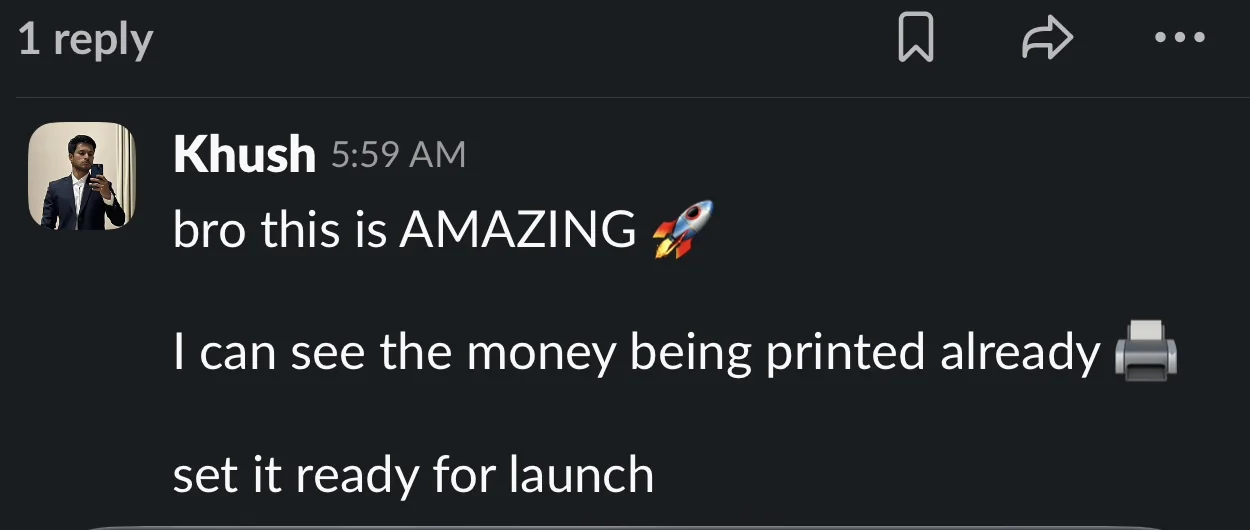
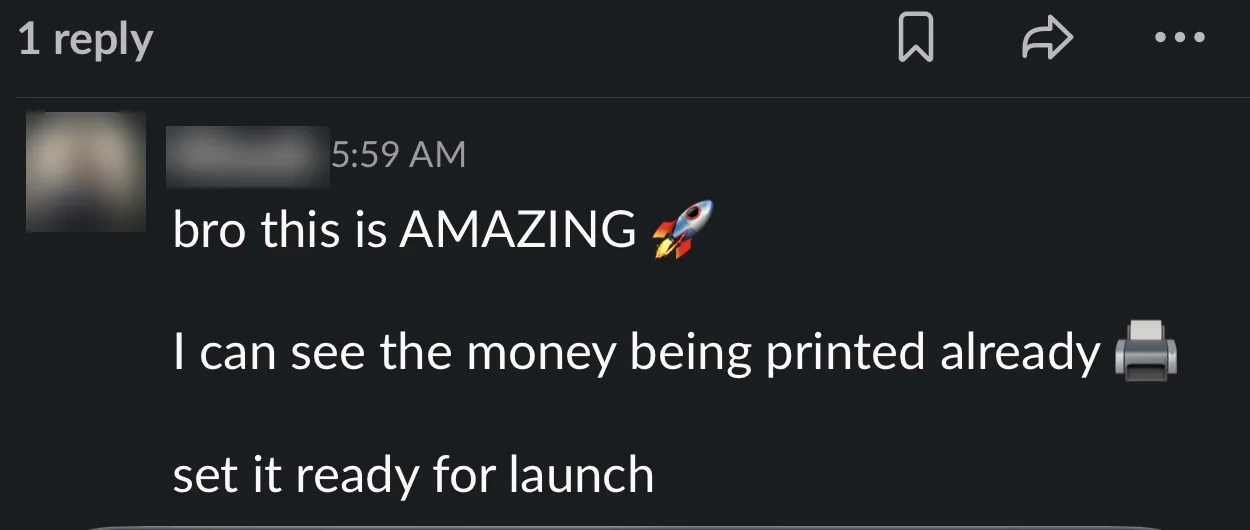
Redact client identities in the Slack proof; proof opens in the lightbox
The ads screenshots come from a client's internal Slack. The two
third-party names and avatars are now blurred; the messages and the
author's own handle are untouched.

Short-form proof swapped for a scroll position that shows Tiare's name,
handle and photo while leaving the pricing question out of frame — both
things at once, no splicing.

The proof shots render between 161px and 340px wide, which is legible
for the hero and unreadable for the pair, so all five now open in the
lightbox that already served the thumbnail wall. That lightbox took its
pictures from THUMBS directly; it now takes a set, so prev/next stays
inside whichever group was opened.

Track record gains subscriber counts for Mark Taylor and Julian Corzo.

Changed region(s): [[0.0, 0.2113, 0.2808, 0.4528]]

diff --git a/index.html b/index.html
@@ -294,7 +294,7 @@ h1,h2,h3{font-family:var(--f-disp);font-weight:800;letter-spacing:-.032em;line-h
   font-family:var(--f-mono);font-size:.58rem;letter-spacing:.13em;text-transform:uppercase;
   color:var(--sand-dim)}
 .svc-proof figcaption svg{width:19px;height:19px;flex:none;color:var(--ember, #2F6BE8);transform:translateY(1px)}
-.proof-shot{display:block;overflow:hidden;border-radius:11px;background:#12161F;
+.proof-shot{display:block;overflow:hidden;border-radius:11px;background:#12161F;cursor:zoom-in;
   border:1px solid rgba(14,20,36,.16);box-shadow:0 20px 44px -26px rgba(6,10,24,.72);
   transform:rotate(-1.7deg);transition:transform .4s var(--ease)}
 .proof-shot img{display:block;width:100%;height:auto;transition:transform .55s var(--ease)}
@@ -917,7 +917,7 @@ body::before{content:"";position:fixed;inset:0;z-index:-1;pointer-events:none;
       <ul class="svc-tags"><li>Hook-first cuts</li><li>Captions</li><li>Reels · Shorts · TikTok</li><li>Batch delivery</li></ul>
       <figure class="svc-proof">
         <figcaption><svg viewBox="0 0 24 24" aria-hidden="true"><path d="M4 5c7.2.4 12.4 4 14.6 10.8" fill="none" stroke="currentColor" stroke-width="1.7" stroke-linecap="round"/><path d="M13.6 15.9l5.2.6.7-5.2" fill="none" stroke="currentColor" stroke-width="1.7" stroke-linecap="round" stroke-linejoin="round"/></svg>What the client said next</figcaption>
-        <span class="proof-shot"><img src="assets/img/proof/tiare-best-edit.webp" alt="Instagram message from Tiare Tarewa of Sovereign Identity reading: I've worked with video editors in the past but this edit is by far one of the best" width="1290" height="680" loading="lazy" decoding="async"></span>
+        <span class="proof-shot"><img src="assets/img/proof/tiare-best-edit.webp" alt="Instagram message from Tiare Tarewa of Sovereign Identity reading: I've worked with video editors in the past but this edit is by far one of the best" width="1290" height="510" loading="lazy" decoding="async"></span>
       </figure>
     </article>
   </div>
@@ -1047,7 +1047,7 @@ body::before{content:"";position:fixed;inset:0;z-index:-1;pointer-events:none;
         </li>
         <li>
           <span class="tl-when">2022 — 2025</span>
-          <b>Mark Taylor · Autogrowth Academy</b>
+          <b>Mark Taylor · Autogrowth Academy <span class="subs">10.2K subs</span></b>
           <em>YouTube channel management with short-form ad creatives</em>
         </li>
         <li>
@@ -1057,7 +1057,7 @@ body::before{content:"";position:fixed;inset:0;z-index:-1;pointer-events:none;
         </li>
         <li>
           <span class="tl-when">2023 — 2024</span>
-          <b>Julian Corzo</b>
+          <b>Julian Corzo <span class="subs">3.93K subs</span></b>
           <em>Long-form YouTube and short-form content</em>
         </li>
       </ol>
@@ -1364,14 +1364,32 @@ body::before{content:"";position:fixed;inset:0;z-index:-1;pointer-events:none;
 
   /* ---------------- lightbox ---------------- */
   var lb = $('#lightbox'), lbImg = $('#lbImg'), lbCap = $('#lbCap');
-  var lbIdx = 0, lastFocus = null;
+  var lbIdx = 0, lastFocus = null, lbSet = [];
 
-  function openLb(i) {
-    lbIdx = (i + THUMBS.length) % THUMBS.length;
-    var t = THUMBS[lbIdx];
-    lbImg.src = 'assets/img/thumbs/' + t.f + '.webp';
-    lbImg.alt = t.t;
-    lbCap.textContent = t.t + '  ·  ' + t.c;
+  /* The thumbnail wall and the proof screenshots are two different sets of
+     pictures through one lightbox, so prev/next stays inside whichever set
+     was opened. */
+  var THUMB_SET = THUMBS.map(function (t) {
+    return { src: 'assets/img/thumbs/' + t.f + '.webp', alt: t.t, cap: t.t + '  ·  ' + t.c };
+  });
+  /* Proof shots are small on purpose; full size is how they are actually read. */
+  var PROOF_SET = $$('.proof-shot').map(function (el, i) {
+    var img = el.querySelector('img');
+    el.setAttribute('data-proof', i);
+    el.setAttribute('tabindex', '0');
+    el.setAttribute('role', 'button');
+    el.setAttribute('aria-label', 'Enlarge: ' + (img.getAttribute('alt') || 'client message'));
+    return { src: img.getAttribute('src'), alt: img.getAttribute('alt') || '', cap: '' };
+  });
+
+  function openLb(i, set) {
+    if (set) lbSet = set;
+    if (!lbSet.length) return;
+    lbIdx = (i + lbSet.length) % lbSet.length;
+    var t = lbSet[lbIdx];
+    lbImg.src = t.src;
+    lbImg.alt = t.alt;
+    lbCap.textContent = t.cap;
     lastFocus = document.activeElement;
     lb.hidden = false;
     document.body.style.overflow = 'hidden';
@@ -1384,12 +1402,16 @@ body::before{content:"";position:fixed;inset:0;z-index:-1;pointer-events:none;
   }
   document.addEventListener('click', function (e) {
     var fig = e.target.closest('[data-lb]');
-    if (fig) { openLb(parseInt(fig.getAttribute('data-lb'), 10)); return; }
+    if (fig) { openLb(parseInt(fig.getAttribute('data-lb'), 10), THUMB_SET); return; }
+    var shot = e.target.closest('[data-proof]');
+    if (shot) { openLb(parseInt(shot.getAttribute('data-proof'), 10), PROOF_SET); return; }
     if (e.target === lb) closeLb();
   });
   document.addEventListener('keydown', function (e) {
     var fig = e.target.closest && e.target.closest('[data-lb]');
-    if (fig && (e.key === 'Enter' || e.key === ' ')) { e.preventDefault(); openLb(parseInt(fig.getAttribute('data-lb'), 10)); return; }
+    if (fig && (e.key === 'Enter' || e.key === ' ')) { e.preventDefault(); openLb(parseInt(fig.getAttribute('data-lb'), 10), THUMB_SET); return; }
+    var shot = e.target.closest && e.target.closest('[data-proof]');
+    if (shot && (e.key === 'Enter' || e.key === ' ')) { e.preventDefault(); openLb(parseInt(shot.getAttribute('data-proof'), 10), PROOF_SET); return; }
     if (!lb || lb.hidden) return;
     if (e.key === 'Escape') closeLb();
     if (e.key === 'ArrowRight') openLb(lbIdx + 1);
